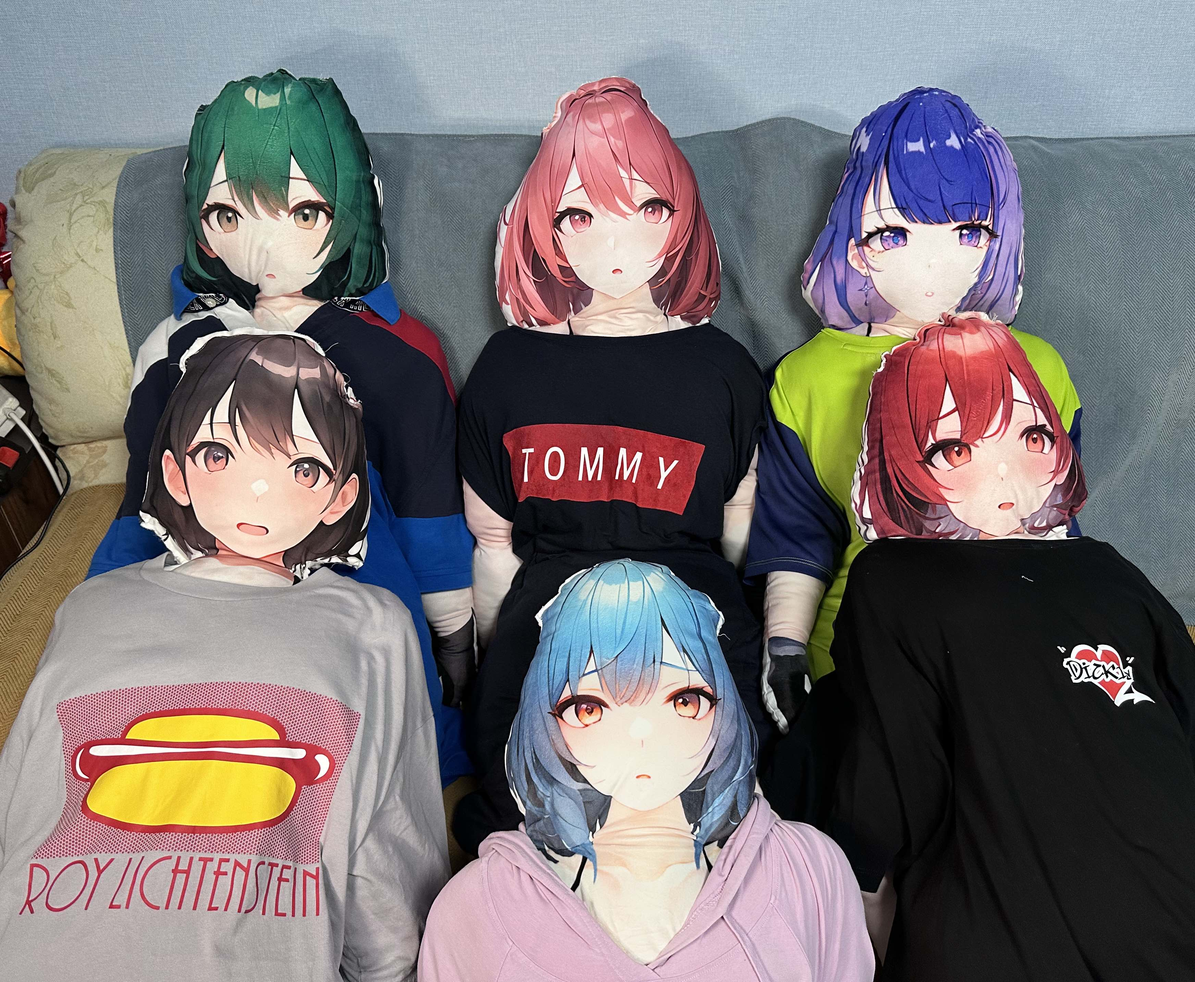
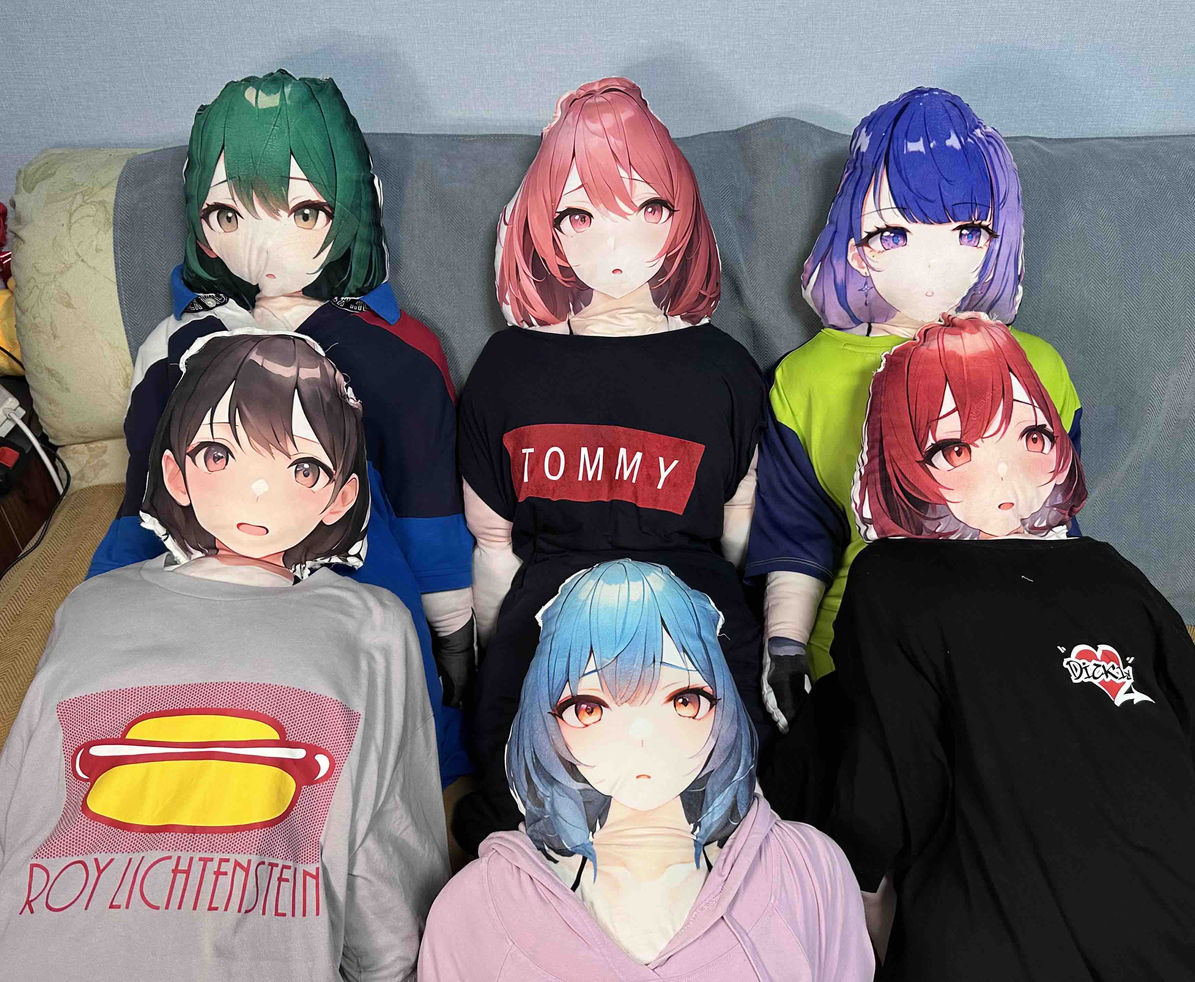
resize

diff --git a/index.html b/index.html
@@ -118,7 +118,7 @@
 
                 <div class="product-info">
                     <h2 class="product-title">身体细节：</h2>
-                    <video width="400" controls poster="index_v2.png">
+                    <video width="400" controls poster="index_v2.jpg">
                         <source src="index_v2.mp4" type="video/mp4">
                     </video>
                 </div>
@@ -129,22 +129,22 @@
 
             <h2 class="product-title">更多产品图片展示：</h2>
             <div id="gallery">
-                <a href="index_p1.png" target="_blank"><img class="thumbnail" src="index_p1.png" alt="Image 1"></a>
-                <a href="index_p2.png" target="_blank"><img class="thumbnail" src="index_p2.png" alt="Image 2"></a>
-                <a href="index_p3.png" target="_blank"><img class="thumbnail" src="index_p3.png" alt="Image 3"></a>
-                 <a href="index_p4.png" target="_blank"><img class="thumbnail" src="index_p4.png" alt="Image 1"></a>
-                <a href="index_p5.png" target="_blank"><img class="thumbnail" src="index_p5.png" alt="Image 2"></a>
-                <a href="index_p6.png" target="_blank"><img class="thumbnail" src="index_p6.png" alt="Image 3"></a>
-                 <a href="index_p7.png" target="_blank"><img class="thumbnail" src="index_p7.png" alt="Image 1"></a>
-                <a href="index_p8.png" target="_blank"><img class="thumbnail" src="index_p8.png" alt="Image 2"></a>
-                <a href="index_p9.png" target="_blank"><img class="thumbnail" src="index_p9.png" alt="Image 3"></a>
-                 <a href="index_p10.png" target="_blank"><img class="thumbnail" src="index_p10.png" alt="Image 1"></a>
-                <a href="index_p11.png" target="_blank"><img class="thumbnail" src="index_p11.png" alt="Image 2"></a>
-                <a href="index_p12.png" target="_blank"><img class="thumbnail" src="index_p12.png" alt="Image 3"></a>
-                 <a href="index_p13.png" target="_blank"><img class="thumbnail" src="index_p13.png" alt="Image 1"></a>
-                <a href="index_p14.png" target="_blank"><img class="thumbnail" src="index_p14.png" alt="Image 2"></a>
-                <a href="index_p15.png" target="_blank"><img class="thumbnail" src="index_p15.png" alt="Image 3"></a>
-                <a href="index_p16.png" target="_blank"><img class="thumbnail" src="index_p16.png" alt="Image 3"></a>
+                <a href="index_p1.jpg" target="_blank"><img class="thumbnail" src="index_p1.jpg" alt="Image 1"></a>
+                <a href="index_p2.jpg" target="_blank"><img class="thumbnail" src="index_p2.jpg" alt="Image 2"></a>
+                <a href="index_p3.jpg" target="_blank"><img class="thumbnail" src="index_p3.jpg" alt="Image 3"></a>
+                 <a href="index_p4.jpg" target="_blank"><img class="thumbnail" src="index_p4.jpg" alt="Image 1"></a>
+                <a href="index_p5.jpg" target="_blank"><img class="thumbnail" src="index_p5.jpg" alt="Image 2"></a>
+                <a href="index_p6.jpg" target="_blank"><img class="thumbnail" src="index_p6.jpg" alt="Image 3"></a>
+                 <a href="index_p7.jpg" target="_blank"><img class="thumbnail" src="index_p7.jpg" alt="Image 1"></a>
+                <a href="index_p8.jpg" target="_blank"><img class="thumbnail" src="index_p8.jpg" alt="Image 2"></a>
+                <a href="index_p9.jpg" target="_blank"><img class="thumbnail" src="index_p9.jpg" alt="Image 3"></a>
+                 <a href="index_p10.jpg" target="_blank"><img class="thumbnail" src="index_p10.jpg" alt="Image 1"></a>
+                <a href="index_p11.jpg" target="_blank"><img class="thumbnail" src="index_p11.jpg" alt="Image 2"></a>
+                <a href="index_p12.jpg" target="_blank"><img class="thumbnail" src="index_p12.jpg" alt="Image 3"></a>
+                 <a href="index_p13.jpg" target="_blank"><img class="thumbnail" src="index_p13.jpg" alt="Image 1"></a>
+                <a href="index_p14.jpg" target="_blank"><img class="thumbnail" src="index_p14.jpg" alt="Image 2"></a>
+                <a href="index_p15.jpg" target="_blank"><img class="thumbnail" src="index_p15.jpg" alt="Image 3"></a>
+                <a href="index_p16.jpg" target="_blank"><img class="thumbnail" src="index_p16.jpg" alt="Image 3"></a>
             </div>
             
             <!-- Add more product sections as needed -->

diff --git a/yuanshen.html b/yuanshen.html
@@ -111,20 +111,20 @@
 
             <h2 class="product-title">八重神子：</h2>
             <div id="gallery">
-                <a href="yuanshen_bachongshenzi1.png" target="_blank"><img class="thumbnail" src="yuanshen_bachongshenzi1.png" alt="Image 1"></a>
-                <a href="yuanshen_bachongshenzi2.png" target="_blank"><img class="thumbnail" src="yuanshen_bachongshenzi2.png" alt="Image 1"></a>
+                <a href="yuanshen_bachongshenzi1.jpg" target="_blank"><img class="thumbnail" src="yuanshen_bachongshenzi1.jpg" alt="Image 1"></a>
+                <a href="yuanshen_bachongshenzi2.jpg" target="_blank"><img class="thumbnail" src="yuanshen_bachongshenzi2.jpg" alt="Image 1"></a>
             </div>
 
             <h2 class="product-title">优菈：</h2>
             <div id="gallery">
-                <a href="yuanshen_youla1.png" target="_blank"><img class="thumbnail" src="yuanshen_youla1.png" alt="Image 1"></a>
-                <a href="yuanshen_youla2.png" target="_blank"><img class="thumbnail" src="yuanshen_youla2.png" alt="Image 1"></a>
+                <a href="yuanshen_youla1.jpg" target="_blank"><img class="thumbnail" src="yuanshen_youla1.jpg" alt="Image 1"></a>
+                <a href="yuanshen_youla2.jpg" target="_blank"><img class="thumbnail" src="yuanshen_youla2.jpg" alt="Image 1"></a>
             </div>
 
             <h2 class="product-title">申鹤：</h2>
             <div id="gallery">
-                <a href="yuanshen_shenhe1.png" target="_blank"><img class="thumbnail" src="yuanshen_shenhe1.png" alt="Image 1"></a>
-                <a href="yuanshen_shenhe2.png" target="_blank"><img class="thumbnail" src="yuanshen_shenhe2.png" alt="Image 1"></a>
+                <a href="yuanshen_shenhe1.jpg" target="_blank"><img class="thumbnail" src="yuanshen_shenhe1.jpg" alt="Image 1"></a>
+                <a href="yuanshen_shenhe2.jpg" target="_blank"><img class="thumbnail" src="yuanshen_shenhe2.jpg" alt="Image 1"></a>
             </div>
             
             <!-- Add more product sections as needed -->

diff --git a/kaidong.html b/kaidong.html
@@ -102,7 +102,7 @@
         <div class="content">
             
             <div class="slogan">
-                <h2 style="color:#ffffff;">开洞展示(默认不开通，需要的话请购买时与客服联系)：</h2>
+                <h2 style="color:#ffffff;">开洞展示(不建议开洞，默认不开洞，需要的话请购买时与客服联系)：</h2>
             </div>
             
 
@@ -111,8 +111,8 @@
 
             <h2 class="product-title">开洞会影响美观哦，可以用内裤遮挡！</h2>
             <div id="gallery">
-                <a href="kaidong1.png" target="_blank"><img class="thumbnail" src="kaidong1.png" alt="Image 1"></a>
-                <a href="kaidong2.png" target="_blank"><img class="thumbnail" src="kaidong2.png" alt="Image 1"></a>
+                <a href="kaidong1.jpg" target="_blank"><img class="thumbnail" src="kaidong1.jpg" alt="Image 1"></a>
+                <a href="kaidong2.jpg" target="_blank"><img class="thumbnail" src="kaidong2.jpg" alt="Image 1"></a>
             </div>
 
             
